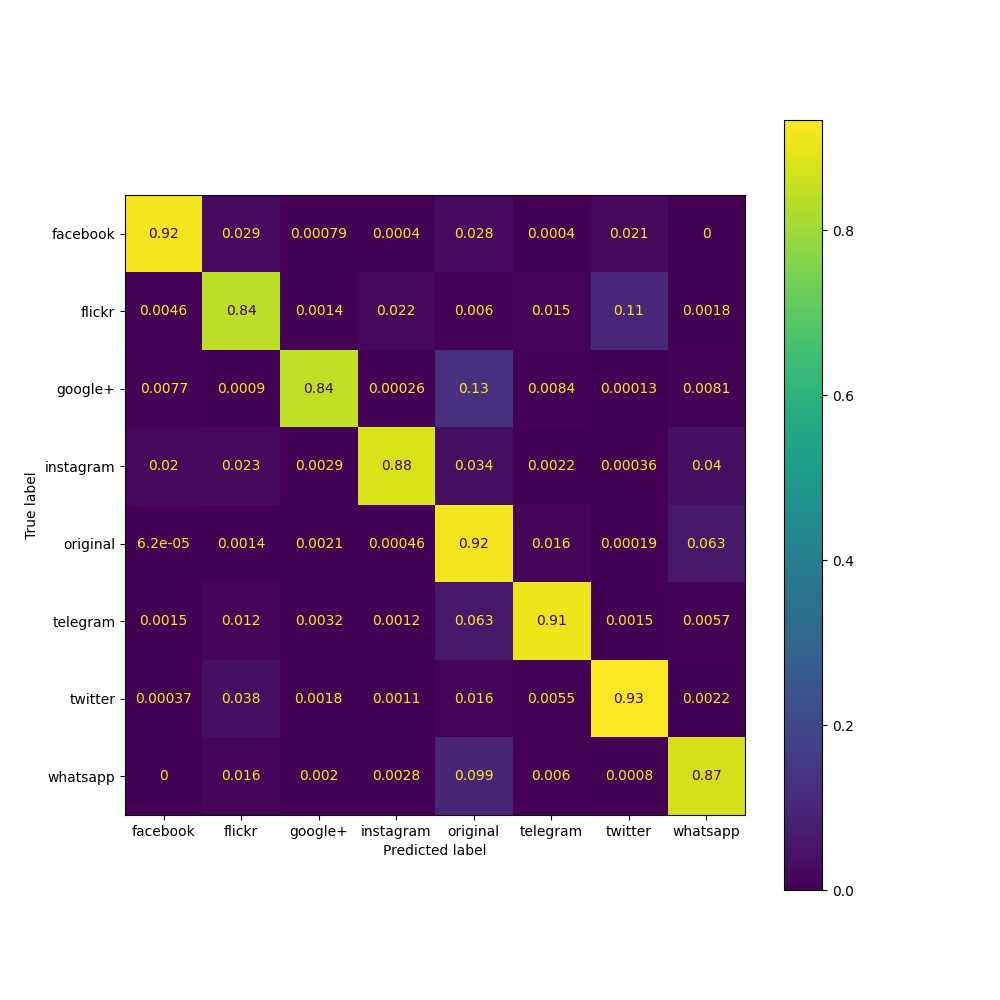
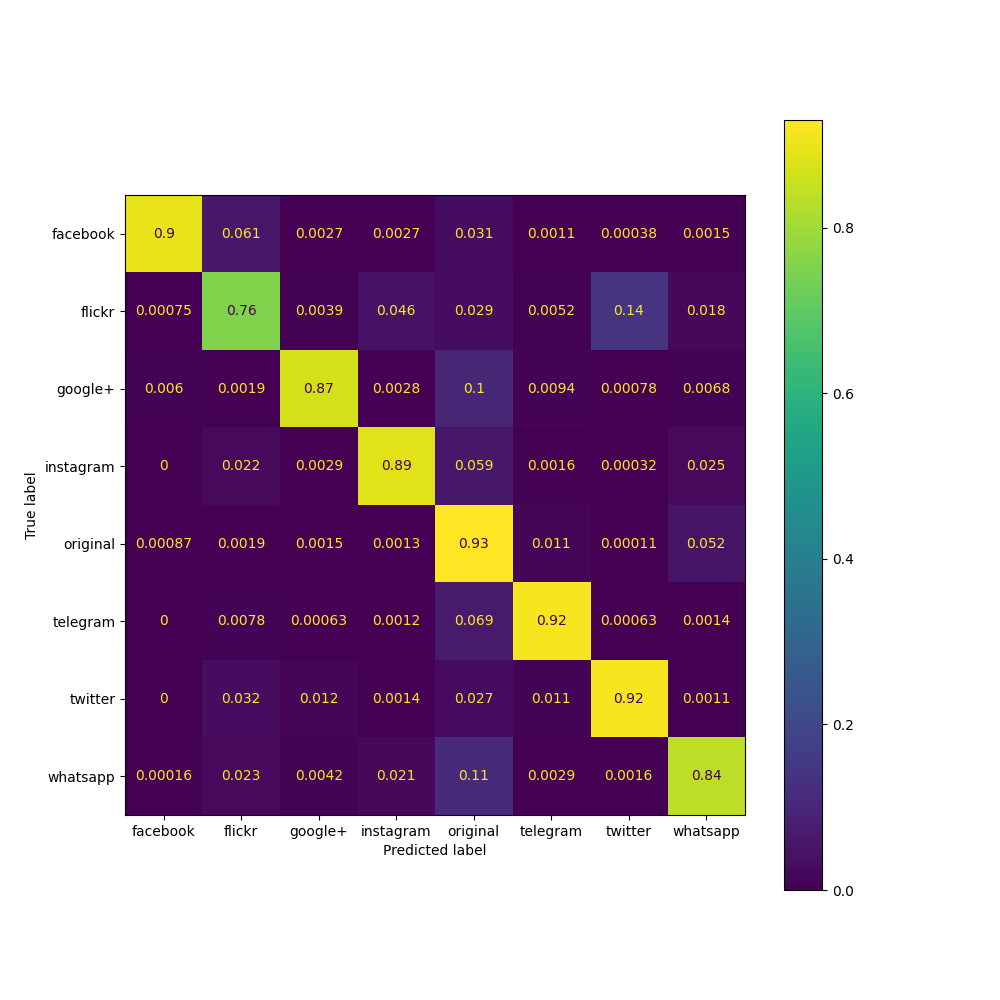
need to fix noise residual code

diff --git a/preprocessor.py b/preprocessor.py
@@ -11,14 +11,8 @@ import os
 import numpy as np
 from sys import argv
 
-
-match argv[1]:
-    case "full": 
-        size = -1
-    case _:
-        size = 64
         
-
+size = -1 if argv[1] == 'full' else 64
 
 path = f"{os.getcwd()}/dataset"
 
@@ -27,50 +21,52 @@ images, labels = load_images.load_images(path)
 
 #split data
 images_train, images_test, labels_train, labels_test = train_test_split(
-    images, labels, test_size=0.2, shuffle=False)
+    images, labels, test_size=0.2, random_state=1, stratify=labels)
 
 images_val, images_test, labels_val, labels_test = train_test_split(
-    images_test, labels_test, test_size = 0.5, shuffle=False)
+    images_test, labels_test, test_size = 0.5, random_state=1, stratify=labels_test)
 
 
 
 
 
-# make patches
-train_patches_bytes, y_train = make_patches.make_patches(images_train, labels_train, size, False)
-val_patches_bytes, y_val = make_patches.make_patches(images_val, labels_val, size, False)
-test_patches_bytes, y_test = make_patches.make_patches(images_test, labels_test, size, True)
+# # make patches
+# train_patches, y_train = make_patches.builder(images_train, labels_train, size, False)
+# val_patches, y_val = make_patches.builder(images_val, labels_val, size, False)
+# test_patches, y_test = make_patches.builder(images_test, labels_test, size, True)
 
-print("patches made")
+# print("patches made")
 
-## preprocess 
+# ## preprocess 
+# print("DCT extraction start")
+# # dct
+# X_train = extract_dcts.process(train_patches, (0,9), (-50, 50))
+# X_val = extract_dcts.process(val_patches, (0,9), (-50, 50))
+# X_test = extract_dcts.process(test_patches, (0,9), (-50, 50))
 
-# dct
-X_train = extract_dcts.process(train_patches_bytes, (0,9), (-50, 50))
-X_val = extract_dcts.process(val_patches_bytes, (0,9), (-50, 50))
-X_test = extract_dcts.process(test_patches_bytes, (0,9), (-50, 50))
+# # save dct
+# np.save(f"processed/X_train_{argv[2]}.npy", X_train)
+# np.save(f"processed/X_val_{argv[2]}.npy", X_val)
+# np.save(f"processed/X_test_{argv[2]}.npy", X_test)
 
-print("dct extracted")
+# #save labels
+# np.save(f"processed/y_train_{argv[2]}.npy", y_train)
+# np.save(f"processed/y_val_{argv[2]}.npy", y_val)
+# np.save(f"processed/y_test_{argv[2]}.npy", y_test)
 
-# # noise
-# Xn_train = extract_noise.extract(images, size)
-# Xn_val = extract_noise.extract(images, size)
-# Xn_test = extract_noise.extract(images, size)
-
-print("noise residuals extracted")
-
-# save dct
-np.save(f"processed/X_DCT_train_{argv[2]}.npy", X_train)
-np.save(f"processed/X_DCT_val_{argv[2]}.npy", X_val)
-np.save(f"processed/X_DCT_test_{argv[2]}.npy", X_test)
-# #save noise
-# np.save(f"processed/X_noise_train_{argv[2]}.npy", X_train)
-# np.save(f"processed/X_noise_val_{argv[2]}.npy", X_val)
-# np.save(f"processed/X_noise_test_{argv[2]}.npy", X_test)
-
-#save labels
-np.save(f"processed/y_train_{argv[2]}.npy", y_train)
-np.save(f"processed/y_val_{argv[2]}.npy", y_val)
-np.save(f"processed/y_test_{argv[2]}.npy", y_test)
+# print("DCTs labels saved")
 
 
+
+print("Noise extraction start")
+
+N_train = extract_noise.extract(images_train, size)
+N_val = extract_noise.extract(images_val, size)
+N_test= extract_noise.extract(images_test, size)
+
+
+np.save(f"processed/Noise_train_{argv[2]}.npy", N_train)
+np.save(f"processed/Noise_val_{argv[2]}.npy", N_val)
+np.save(f"processed/Noise_test_{argv[2]}.npy", N_test)
+
+print("Noise extraction finished and saved")

diff --git a/utilities/make_patches.py b/utilities/make_patches.py
@@ -1,5 +1,5 @@
 import numpy as np
-from patchify import patchify
+# from patchify import patchify
 import cv2
 
 def im_to_bytes(patch):
@@ -7,23 +7,26 @@ def im_to_bytes(patch):
     _, im_buf_arr = cv2.imencode(".jpeg", patch, [cv2.IMWRITE_JPEG_QUALITY, 100])
     return im_buf_arr.tobytes()
 
+def make_patches(im, size):
+    patches = []
+    for i in range(0, im.shape[0]-size+1, size):
+        for j in range(0, im.shape[1]-size+1, size):
+            patches.append(im[i:i+size, j:j+size])
+    return patches
 
-
-def make_patches(images, labels, size, test):
+def builder(paths, labels, size, test):
     X_b = []
     y = []
 
 
-    for index, (image, label) in enumerate(zip(images, labels)):
-        patches = patchify(image, (size, size, 3), step=size)
+    for index, (path, label) in enumerate(zip(paths, labels)):
+        image = cv2.cvtColor(cv2.imread(path), cv2.COLOR_BGR2RGB)
+        patches = make_patches(image, size)
 
         #iterate over all patches
-        for i in range(patches.shape[0]):
-            for j in range(patches.shape[1]):
-                patch = patches[i, j, 0]
-                
-                X_b.append(im_to_bytes(patch))
-                y.append(f"{label}.{index}" if test else label)
+        for patch in patches:
+            X_b.append(im_to_bytes(patch))
+            y.append(f"{label}.{index}" if test else label)
     
     return X_b, y
                 

diff --git a/cnn_train.py b/cnn_train.py
@@ -2,7 +2,8 @@
 Usage: python cnn_train.py {name} {EPOCH} {BATCH}
 '''
 
-
+import os
+os.environ['TF_CPP_MIN_LOG_LEVEL'] = '3' 
 import tensorflow as tf
 import numpy as np
 from tensorflow.keras import layers, models, callbacks
@@ -13,9 +14,10 @@ EPOCH = int(argv[2])
 BATCH_SIZE = int(argv[3])
 
 
-X_train = np.load(f'processed/X_DCT_train_{argv[1]}.npy')
+X_train = np.load(f'processed/X_train_{argv[1]}.npy')
 y_train = np.load(f'processed/y_train_{argv[1]}.npy')
-X_val = np.load(f'processed/X_DCT_val_{argv[1]}.npy')
+
+X_val = np.load(f'processed/X_val_{argv[1]}.npy')
 y_val = np.load(f'processed/y_val_{argv[1]}.npy')
 
 # X_train = (X_train - X_train.mean())/(X_train.std())
@@ -45,9 +47,22 @@ y_val = np.select([
     y_val == 'whatsapp'
 ], [0,1,2,3,4,5,6,7], y_val).astype(np.uint8)
 
+# print(len(y_train))
+# print(len(y_val))
+
+# print(len(X_train))
+# print(len(X_val))
+
+
+# print(y_train[0])
+# print(y_val[0])
+
 
 y_train = to_categorical(y_train)
 y_val = to_categorical(y_val)
+
+print(len(y_train[0]))
+print(len(y_val[0]))
 
 model = models.Sequential()
 model.add(layers.Conv1D(100, 3,activation='relu', input_shape=(909,1)))
@@ -68,8 +83,7 @@ callback = callbacks.EarlyStopping(monitor='val_loss', patience=5)
 model.compile(
     loss='categorical_crossentropy',
     optimizer='AdaDelta',
-    metrics=['accuracy'],
-    jit_compile=True
+    metrics=['accuracy']
 )
 
 

diff --git a/utilities/extract_noise.py b/utilities/extract_noise.py
@@ -1,9 +1,8 @@
 import cv2
+from PIL import Image
 import numpy as np
-from numba import jit
-import time as time
+import time 
 
-@jit(nopython=True)
 def extract_noise_residual(i, d):
     
     n_r = i - d
@@ -11,7 +10,6 @@ def extract_noise_residual(i, d):
 
     return n_r
 
-@jit(nopython=True)
 def make_patches(residual, size):
     patches = []
     for i in range(0, residual.shape[0]-size[0]+1, size[0]):
@@ -20,21 +18,21 @@ def make_patches(residual, size):
             patches.append(patch)
     return patches
 
-def extract(images, size):
+def extract(paths, size):
     
     X = []
     size = (size, size)
 
-    for i in images:
-        start = time.time()
-        d = cv2.fastNlMeansDenoisingColored(i)
+    for p in paths:
+        i = np.array(Image.open(p).convert('L'))
+
+        d = cv2.fastNlMeansDenoising(i)
 
         residual = extract_noise_residual(i, d)
         patches = make_patches(residual, size)
-        print(f'{time.time() - start}')
         X.extend(patches)
 
 
-    return X
+    return np.array(X)
 
 

diff --git a/cnn_test.py b/cnn_test.py
@@ -1,3 +1,10 @@
+'''
+Usage: python cnn_test.py {file to load} {save results}
+'''
+
+
+import os
+os.environ['TF_CPP_MIN_LOG_LEVEL'] = '3' 
 import tensorflow as tf
 import numpy as np
 import matplotlib.pyplot as plt
@@ -11,15 +18,15 @@ classes = ['facebook', 'flickr', 'google+', 'instagram', 'original', 'telegram',
 
 
 # load test data and model and get predictions
-X_test = np.load(f'processed/X_DCT_test_{argv[1]}.npy')
+X_test = np.load(f'processed/X_test_{argv[1]}.npy')
 y_test = np.load(f'processed/y_test_{argv[1]}.npy')
 model = models.load_model(f'models/cnn_{argv[1]}')
 y_pred = np.argmax(model.predict(X_test), axis=1)
 
+print(len(X_test))
 
-
-# standardise
-X_test = (X_test - X_test.mean()) / (X_test.std())
+# # standardise
+# X_test = (X_test - X_test.mean()) / (X_test.std())
 
 # convert labels with image index to just regular labels (to test on patch level)
 for i, y in enumerate(y_test): 

diff --git a/utilities/load_images.py b/utilities/load_images.py
@@ -1,7 +1,7 @@
 import cv2
 import os
 
-# load images from a path into a list
+# append paths to images into a list
 def load_images(path):  
     X = []
     labels = []
@@ -9,13 +9,8 @@ def load_images(path):
     for class_name in os.listdir(path):
         file_list = os.listdir(f"{path}/{class_name}")
 
-        for index, file in enumerate(file_list):
-            # open image and convert to RGB
-            im = cv2.imread(f"{path}/{class_name}/{file}")
-            im = cv2.cvtColor(im, cv2.COLOR_BGR2RGB) 
-
-            X.append(im)
-
+        for file in file_list:
+            X.append(f"{path}/{class_name}/{file}")
             labels.append(class_name)
 
     return X, labels

diff --git a/utilities/extract_dcts.py b/utilities/extract_dcts.py
@@ -1,7 +1,7 @@
 from jpeg2dct.numpy import loads
 import numpy as np
 import time as t
-from numba import jit, njit
+from numba import jit
 
 
 
